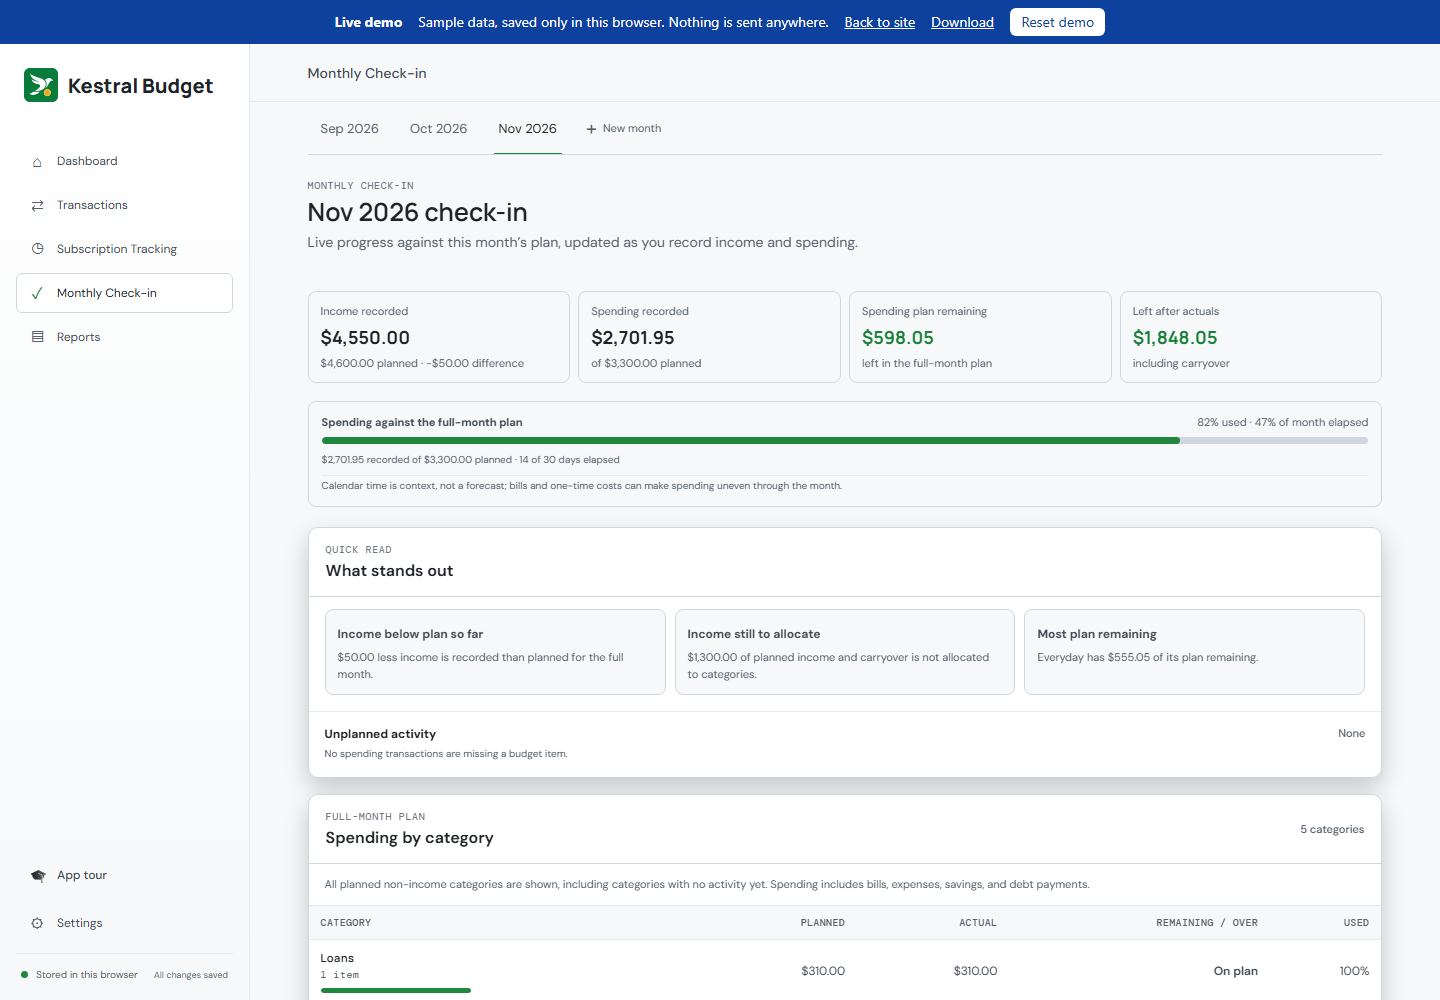
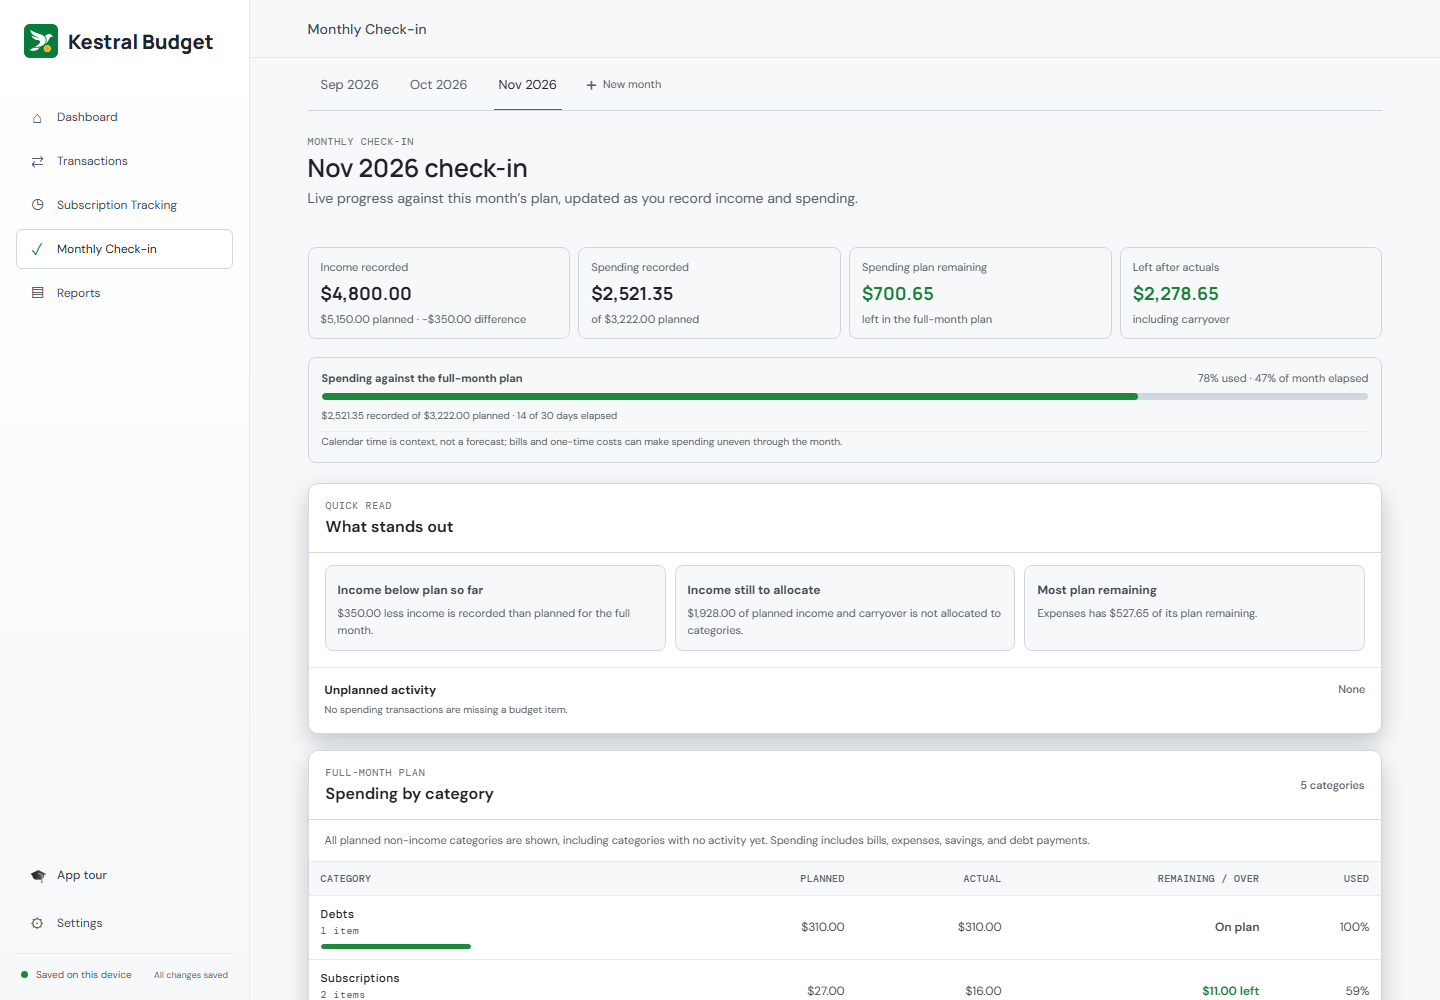
Use production screenshots and align demo categories

diff --git a/src/demo-seed.ts b/src/demo-seed.ts
@@ -11,12 +11,12 @@ type Item = [name: string, planned: number, actual: number, dueDay?: number];
 type Plan = Record<string, Array<[category: string, items: Item[]]>>;
 
 const PLAN: Plan = {
-  income: [['Paychecks', [['Paycheck - Acme Co', 4200, 4200], ['Side projects', 400, 350]]]],
-  bills: [['Home', [['Rent', 1450, 1450, 1], ['Electric', 95, 88, 12], ['Internet', 65, 65, 15]]]],
-  expenses: [['Everyday', [['Groceries', 520, 0], ['Dining out', 160, 0], ['Fuel', 120, 0], ['Fun money', 100, 0]]]],
-  subscriptions: [['Streaming & apps', [['Streaming', 16, 16, 8], ['Music', 11, 11, 20], ['Cloud storage', 3, 3, 25]]]],
-  debts: [['Loans', [['Car loan', 310, 310, 5]]]],
-  savings: [['Goals', [['Emergency fund', 300, 300], ['Vacation', 150, 150]]]],
+  income: [['Income', [['Paycheck - Acme Co', 4200, 4200], ['Side projects', 400, 350]]]],
+  bills: [['Bills', [['Rent', 1450, 1450, 1], ['Electric', 95, 88, 12], ['Internet', 65, 65, 15]]]],
+  expenses: [['Expenses', [['Groceries', 520, 0], ['Dining out', 160, 0], ['Fuel', 120, 0], ['Fun money', 100, 0]]]],
+  subscriptions: [['Subscriptions', [['Streaming', 16, 16, 8], ['Music', 11, 11, 20], ['Cloud storage', 3, 3, 25]]]],
+  debts: [['Debts', [['Car loan', 310, 310, 5]]]],
+  savings: [['Savings', [['Emergency fund', 300, 300], ['Vacation', 150, 150]]]],
 };
 
 function buildBudget(offset: number, seriesId: string) {
